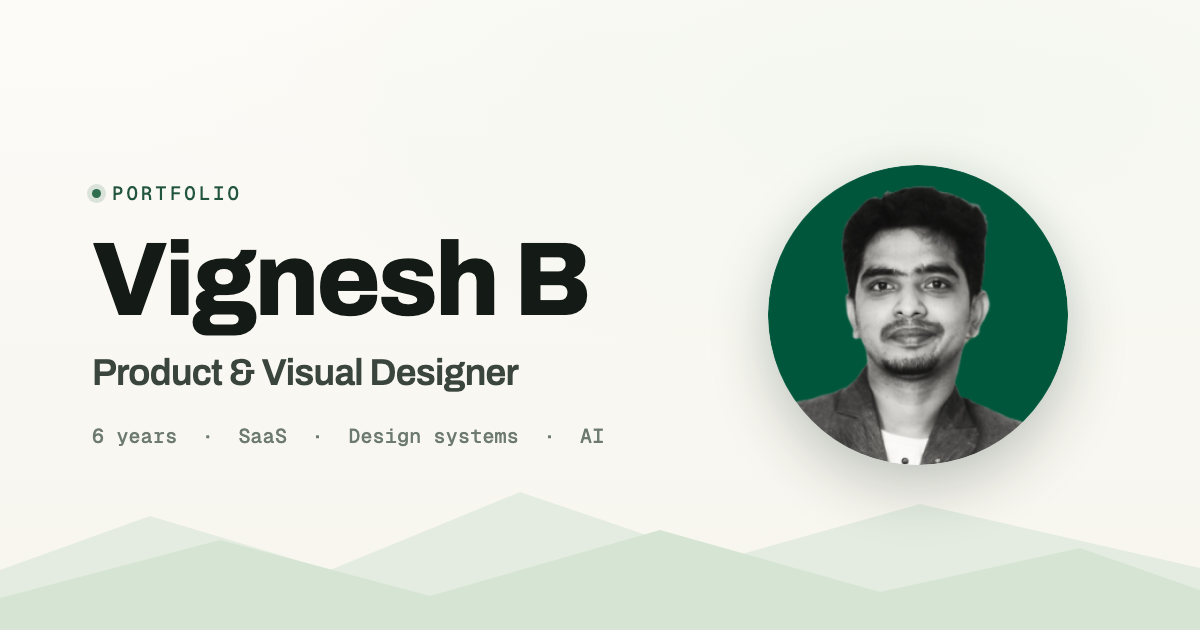
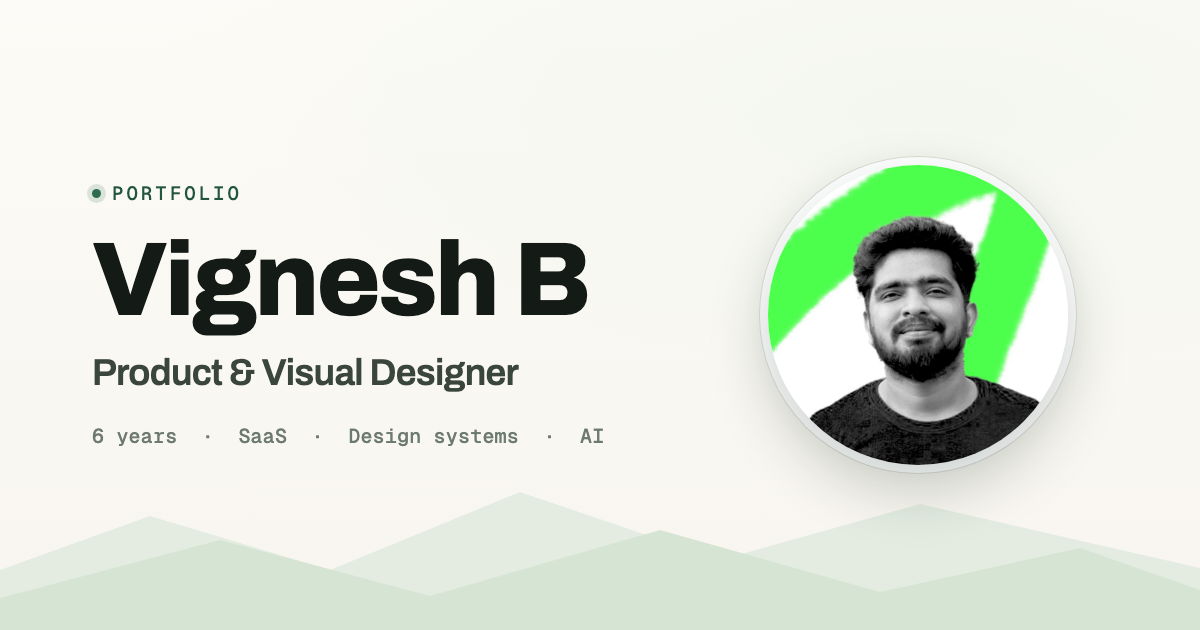
Use new green-swoosh portrait in OG share card
Swap the OG card photo for the higher-res 800x800 portrait; add a white
ring so the circle stays defined against the paper background.

Changed region(s): [[0.6167, 0.2413, 0.8942, 0.754]]

diff --git a/assets/og-card.html b/assets/og-card.html
@@ -44,7 +44,9 @@
   }
   .portrait{
     width:300px;height:300px;border-radius:50%;display:block;position:relative;
-    box-shadow:0 24px 60px rgba(20,40,30,.22);
+    object-fit:cover;background:#fff;
+    box-shadow:0 24px 60px rgba(20,40,30,.22),
+               0 0 0 8px #fff, 0 0 0 9px rgba(20,26,22,.10);
   }
 </style>
 </head>
@@ -58,7 +60,7 @@
 
   <div class="portrait-wrap">
     <div class="halo"></div>
-    <img class="portrait" src="vignesh-portrait.png" alt="Vignesh B">
+    <img class="portrait" src="portrait-og.jpg" alt="Vignesh B">
   </div>
 
   <div class="ridge" aria-hidden="true">
